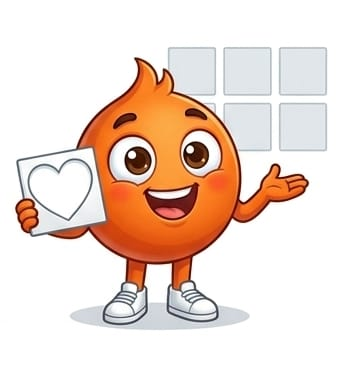
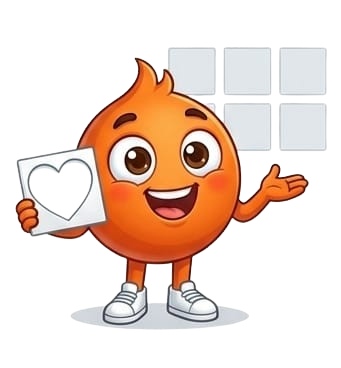
feat(web-client): removal of background image

diff --git a/components/common/EmptyStateCard.tsx b/components/common/EmptyStateCard.tsx
@@ -27,11 +27,9 @@ export function EmptyStateCard({
     <motion.div
       initial={{ opacity: 0, scale: 0.98 }}
       animate={{ opacity: 1, scale: 1 }}
-      className={`mx-auto flex w-full max-w-xl flex-col items-center justify-center gap-6 rounded-[2rem] bg-[var(--color-bg-card)] px-6 py-10 text-center shadow-sm sm:px-8 sm:py-12 ${className ?? ""}`.trim()}
+      className={`mx-auto flex w-full max-w-xl flex-col items-center justify-center gap-8 px-6 py-16 text-center sm:px-8 sm:py-20 ${className ?? ""}`.trim()}
     >
-      <div className="relative h-[260px] w-full max-w-[280px] sm:h-[300px] sm:max-w-[320px]">
-        <Image src={imageSrc} alt={imageAlt} fill className="object-contain" sizes="(max-width: 640px) 100vw, 320px" />
-      </div>
+      <Image src={imageSrc} alt={imageAlt} width={280} height={260} className="object-contain sm:h-[300px] sm:w-[320px]" />
 
       <div className="space-y-3">
         <h3 className="text-3xl font-bold text-[var(--color-text-primary)] sm:text-4xl">{title}</h3>
